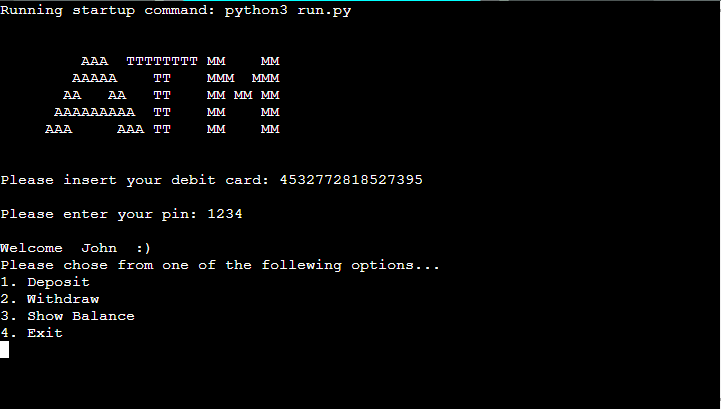
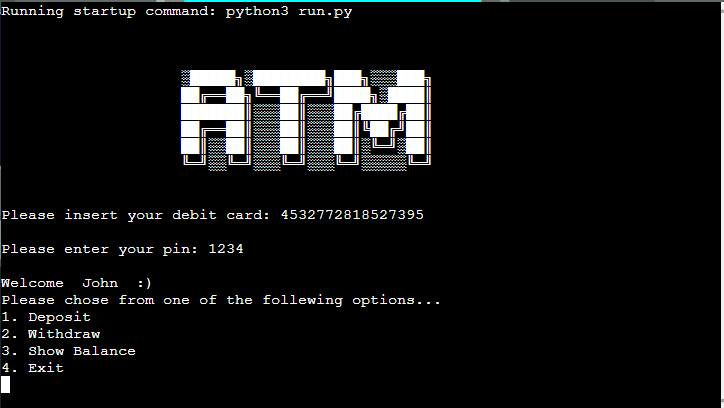
update readme

diff --git a/README.md b/README.md
@@ -297,7 +297,11 @@ The steps were as follows:</p>
 <a href="https://favicon.io/" rel="nofollow">Favicon.io</a> - used for generating the website favicon<br>
 <a href="https://www.diffchecker.com/" rel="nofollow">Diffchecker</a> - used for comparing the code<br>
 <a href="https://validator.w3.org/#validate_by_uri+with_options" rel="nofollow">HTML - W3C HTML Validator</a> - used for validating the HTML<br>
-<a href="https://jigsaw.w3.org/css-validator/#validate_by_uri" rel="nofollow">CSS - Jigsaw CSS Validator</a> - used for validating the CSS<br></p>
+<a href="https://jigsaw.w3.org/css-validator/#validate_by_uri" rel="nofollow">CSS - Jigsaw CSS Validator</a> - used for validating the CSS<br>
+<a href="https://fsymbols.com/text-art/" rel="nofollow">Symbols ☯ Emoji</a> - used for generating the symbols for terminal<br></p>
+
+
+
 
 
 <h2 dir="auto"><a id="user-content-acknowledgements" class="anchor" aria-hidden="true" href="#acknowledgements"><svg class="octicon octicon-link" viewBox="0 0 16 16" version="1.1" width="16" height="16" aria-hidden="true"><path fill-rule="evenodd" d="M7.775 3.275a.75.75 0 001.06 1.06l1.25-1.25a2 2 0 112.83 2.83l-2.5 2.5a2 2 0 01-2.83 0 .75.75 0 00-1.06 1.06 3.5 3.5 0 004.95 0l2.5-2.5a3.5 3.5 0 00-4.95-4.95l-1.25 1.25zm-4.69 9.64a2 2 0 010-2.83l2.5-2.5a2 2 0 012.83 0 .75.75 0 001.06-1.06 3.5 3.5 0 00-4.95 0l-2.5 2.5a3.5 3.5 0 004.95 4.95l1.25-1.25a.75.75 0 00-1.06-1.06l-1.25 1.25a2 2 0 01-2.83 0z"></path></svg></a>ACKNOWLEDGEMENTS</h2>
